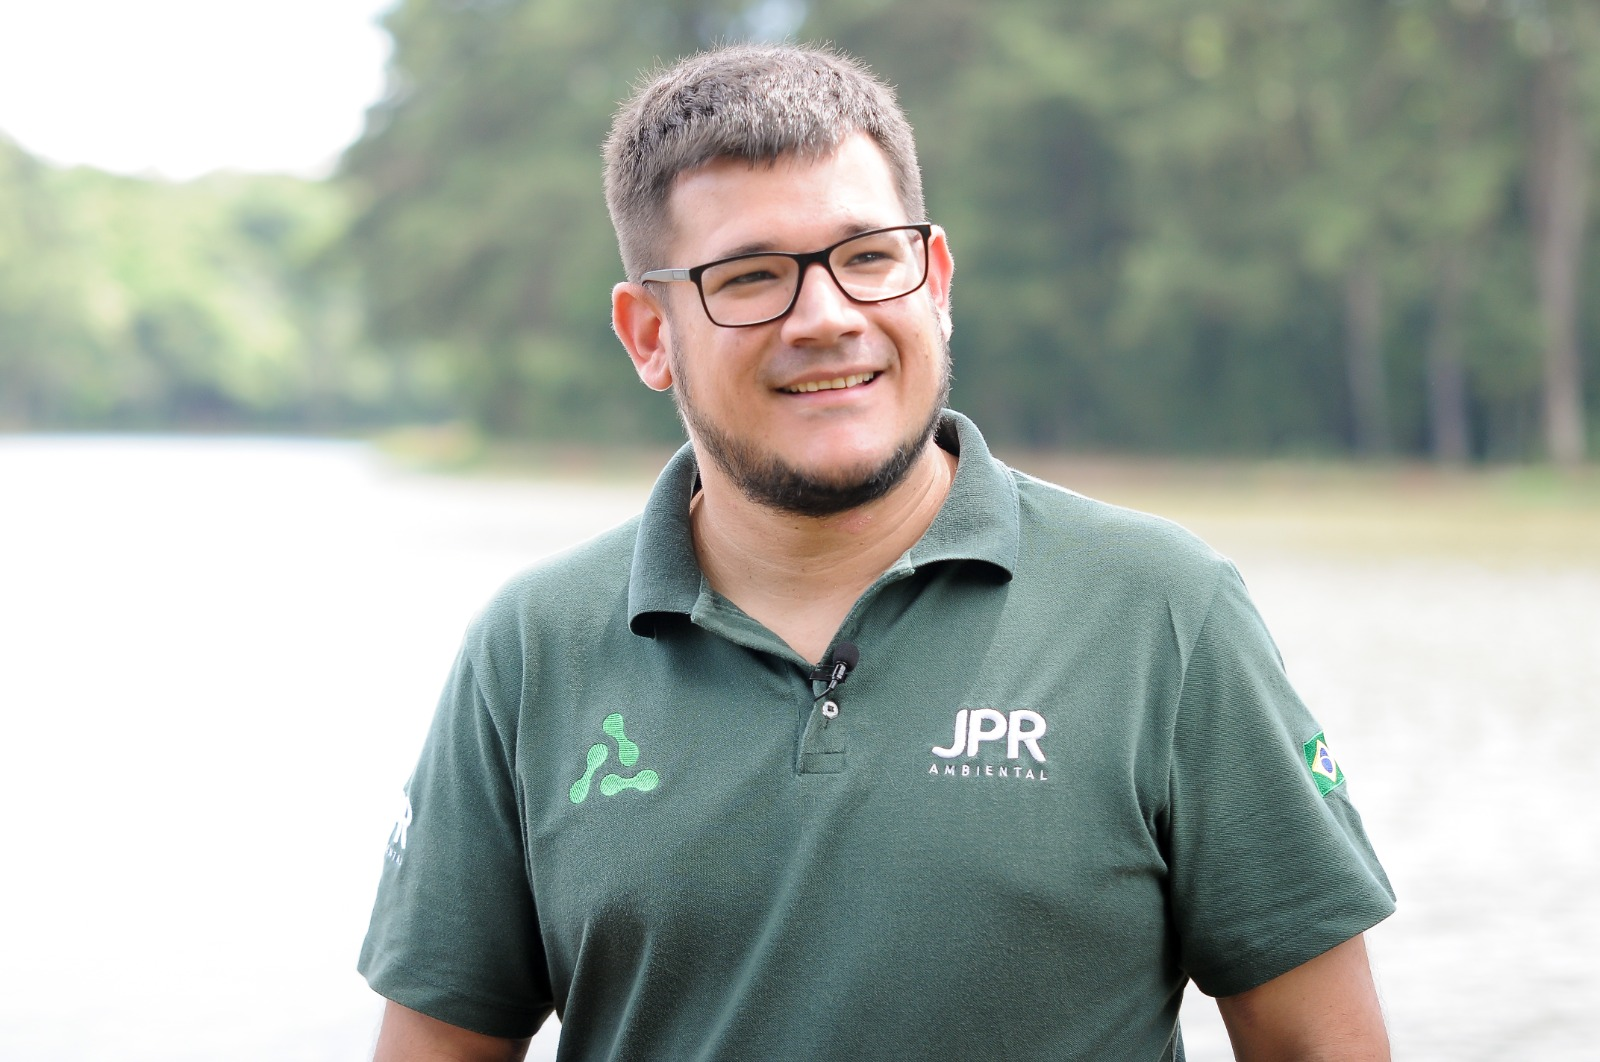
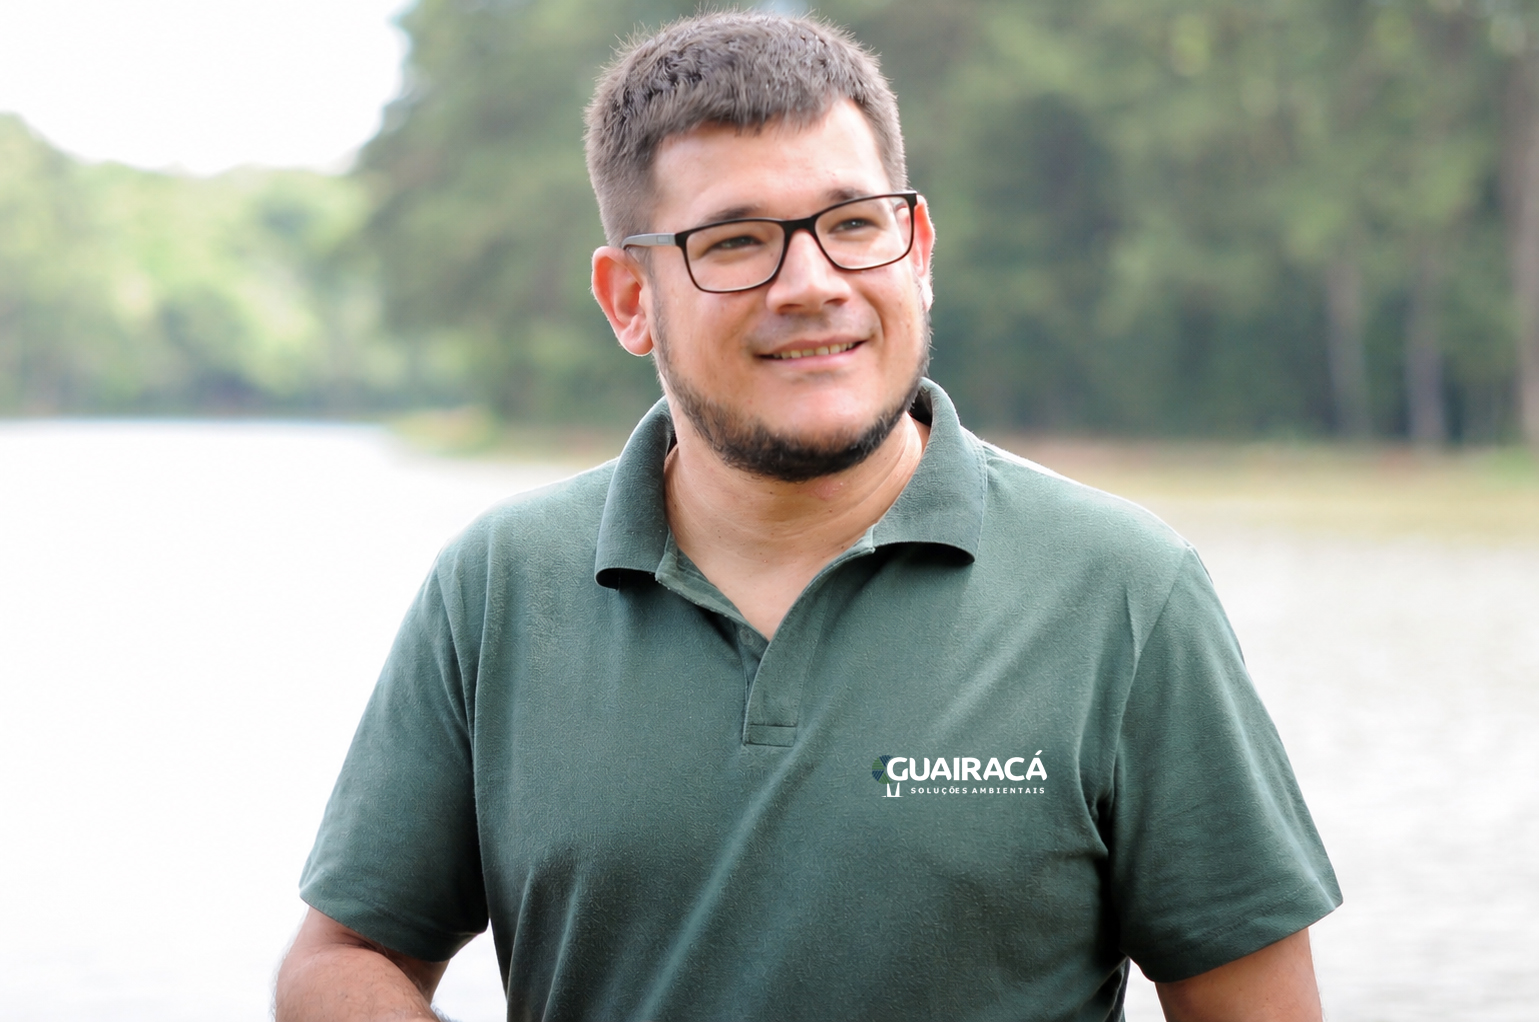
instalacao GTM

diff --git a/index.html b/index.html
@@ -1,6 +1,39 @@
 <!DOCTYPE html>
 <html lang="pt-BR">
 <head>
+    <!-- Google Consent Mode: deve vir antes do Google Tag Manager -->
+    <script>
+        window.dataLayer = window.dataLayer || [];
+        function gtag(){dataLayer.push(arguments);}
+
+        var consentimentoGoogle = 'denied';
+
+        try {
+            var escolhaCookies = localStorage.getItem('cookiesGuairaca');
+
+            if (escolhaCookies === 'granted' || escolhaCookies === 'true') {
+                consentimentoGoogle = 'granted';
+            }
+        } catch (erro) {
+            consentimentoGoogle = 'denied';
+        }
+
+        gtag('consent', 'default', {
+            ad_storage: consentimentoGoogle,
+            analytics_storage: consentimentoGoogle,
+            ad_user_data: consentimentoGoogle,
+            ad_personalization: consentimentoGoogle
+        });
+    </script>
+
+    <!-- Google Tag Manager -->
+    <script>(function(w,d,s,l,i){w[l]=w[l]||[];w[l].push({'gtm.start':
+    new Date().getTime(),event:'gtm.js'});var f=d.getElementsByTagName(s)[0],
+    j=d.createElement(s),dl=l!='dataLayer'?'&l='+l:'';j.async=true;j.src=
+    'https://www.googletagmanager.com/gtm.js?id='+i+dl;f.parentNode.insertBefore(j,f);
+    })(window,document,'script','dataLayer','GTM-MQ4B3G3R');</script>
+    <!-- End Google Tag Manager -->
+
     <meta charset="UTF-8">
     <meta name="viewport" content="width=device-width, initial-scale=1.0">
 
@@ -261,6 +294,11 @@
 </head>
 <body>
 
+        <!-- Google Tag Manager (noscript) -->
+    <noscript><iframe src="https://www.googletagmanager.com/ns.html?id=GTM-MQ4B3G3R"
+    height="0" width="0" style="display:none;visibility:hidden"></iframe></noscript>
+    <!-- End Google Tag Manager (noscript) -->
+     
     <header id="header" class="header-fixo">
         <div class="container menu-container">
             <div class="logo">
@@ -316,23 +354,23 @@
             <div class="container grid-numeros">
 
                 <div class="numero-item">
-                    <div class="contador" data-target="50">+ de 0</div>
+                    <div class="contador" data-target="100">+ de 0</div>
                     <p>Projetos Ambientais Aprovados</p>
                 </div>
 
                 <div class="numero-item">
-                    <div class="contador" data-target="1500">+ de 0</div>
+                    <div class="contador" data-target="1200">+ de 0</div>
                     <p>Hectares Recuperados</p>
                 </div>
 
                 <div class="numero-item">
-                    <div class="contador" data-target="120">+ de 0</div>
+                    <div class="contador" data-target="100">+ de 0</div>
                     <p>Clientes Corporativos Atendidos</p>
                 </div>
 
                 <div class="numero-item">
-                    <div class="contador">100%</div>
-                    <p>de Conformidade com Órgãos Fiscalizadores</p>
+                    <div class="contador" data-target="50">+ de 0</div>
+                    <p>Órgãos Fiscalizadores</p>
                 </div>
 
             </div>
@@ -645,7 +683,10 @@
                                 <svg width="18" height="18" viewBox="0 0 24 24" fill="none" stroke="currentColor" stroke-width="2" stroke-linecap="round" stroke-linejoin="round"><path d="M18 2h-3a5 5 0 0 0-5 5v3H7v4h3v8h4v-8h3.8l.2-4h-4V7a1 1 0 0 1 1-1h3z"></path></svg>
                             </a>
                         </div>
-                        <a href="politica-de-privacidade.html" class="link-privacidade">Política de Privacidade</a>
+                        <div class="footer-politicas">
+                            <a href="politica-de-privacidade.html" class="link-privacidade">Política de Privacidade</a>
+                            <button id="preferencias-cookies" class="botao-preferencias-cookies" type="button">Preferências de cookies</button>
+                        </div>
                     </div>
                 </div>
             </div>
@@ -659,10 +700,13 @@
             
         </div>
   
-        <div id="cookie-banner" class="cookie-banner">
+        <div id="cookie-banner" class="cookie-banner" role="dialog" aria-label="Preferências de cookies" aria-live="polite">
             <div class="cookie-content">
-                <p>Nós utilizamos cookies e tecnologias semelhantes para melhorar a sua experiência em nosso site. Ao continuar navegando, você concorda com a nossa <a href="politica-de-privacidade.html">Política de Privacidade</a>.</p>
-                <button id="aceitar-cookies" class="btn btn-principal btn-cookie">Entendi e Aceito</button>
+                <p>Utilizamos cookies opcionais para medir o uso do site e melhorar nossos serviços. Você pode aceitar ou recusar. Saiba mais na nossa <a href="politica-de-privacidade.html">Política de Privacidade</a>.</p>
+                <div class="cookie-acoes">
+                    <button id="recusar-cookies" class="btn btn-cookie btn-cookie-recusar" type="button">Recusar</button>
+                    <button id="aceitar-cookies" class="btn btn-principal btn-cookie" type="button">Aceitar</button>
+                </div>
             </div>
         </div>       
 

diff --git a/politica-de-privacidade.html b/politica-de-privacidade.html
@@ -1,6 +1,39 @@
 <!DOCTYPE html>
 <html lang="pt-BR">
 <head>
+    <!-- Google Consent Mode: deve vir antes do Google Tag Manager -->
+    <script>
+        window.dataLayer = window.dataLayer || [];
+        function gtag(){dataLayer.push(arguments);}
+
+        var consentimentoGoogle = 'denied';
+
+        try {
+            var escolhaCookies = localStorage.getItem('cookiesGuairaca');
+
+            if (escolhaCookies === 'granted' || escolhaCookies === 'true') {
+                consentimentoGoogle = 'granted';
+            }
+        } catch (erro) {
+            consentimentoGoogle = 'denied';
+        }
+
+        gtag('consent', 'default', {
+            ad_storage: consentimentoGoogle,
+            analytics_storage: consentimentoGoogle,
+            ad_user_data: consentimentoGoogle,
+            ad_personalization: consentimentoGoogle
+        });
+    </script>
+
+    <!-- Google Tag Manager -->
+    <script>(function(w,d,s,l,i){w[l]=w[l]||[];w[l].push({'gtm.start':
+    new Date().getTime(),event:'gtm.js'});var f=d.getElementsByTagName(s)[0],
+    j=d.createElement(s),dl=l!='dataLayer'?'&l='+l:'';j.async=true;j.src=
+    'https://www.googletagmanager.com/gtm.js?id='+i+dl;f.parentNode.insertBefore(j,f);
+    })(window,document,'script','dataLayer','GTM-MQ4B3G3R');</script>
+    <!-- End Google Tag Manager -->
+
     <meta charset="UTF-8">
     <meta name="viewport" content="width=device-width, initial-scale=1.0">
     <title>Política de Privacidade - Guairacá Ambiental</title>
@@ -8,6 +41,11 @@
     <link href="https://fonts.googleapis.com/css2?family=Inter:wght@300;400;600;700&display=swap" rel="stylesheet">
 </head>
 <body>
+
+        <!-- Google Tag Manager (noscript) -->
+    <noscript><iframe src="https://www.googletagmanager.com/ns.html?id=GTM-MQ4B3G3R"
+    height="0" width="0" style="display:none;visibility:hidden"></iframe></noscript>
+    <!-- End Google Tag Manager (noscript) -->
 
     <!-- Cabeçalho (Com links apontando de volta para a Home) -->
     <header id="header" class="header-fixo">
@@ -80,7 +118,8 @@
                 </ul>
 
                 <h2>5. Uso de Cookies</h2>
-                <p>O nosso site utiliza cookies apenas para melhorar a sua experiência de navegação e entender como os visitantes interagem com a página (através de métricas anônimas de acesso). Você pode desabilitar os cookies a qualquer momento ajustando as configurações do seu navegador, porém isso pode afetar o funcionamento de alguns recursos do site.</p>
+                <p>Este site utiliza o Google Tag Manager para administrar tags e pode utilizar o Google Analytics 4 para compreender como as páginas são acessadas. Cookies de análise e publicidade são ativados de acordo com a escolha feita no banner de consentimento. Quando recusados, esses tipos de armazenamento permanecem negados; as tags do Google ainda podem enviar sinais limitados sem cookies conforme o Modo de Consentimento.</p>
+                <p>Você pode alterar sua decisão a qualquer momento pelo botão “Preferências de cookies” disponível no rodapé.</p>
 
                 <h2>6. Armazenamento e Segurança</h2>
                 <p>Adotamos medidas de segurança técnicas e administrativas aptas a proteger os seus dados pessoais de acessos não autorizados e de situações acidentais de destruição, perda ou alteração. Seus dados são armazenados apenas pelo tempo necessário para a prestação do serviço ou cumprimento de exigências legais.</p>
@@ -155,7 +194,10 @@
                                 <svg width="18" height="18" viewBox="0 0 24 24" fill="none" stroke="currentColor" stroke-width="2" stroke-linecap="round" stroke-linejoin="round"><path d="M18 2h-3a5 5 0 0 0-5 5v3H7v4h3v8h4v-8h3.8l.2-4h-4V7a1 1 0 0 1 1-1h3z"></path></svg>
                             </a>
                         </div>
-                        <a href="politica-de-privacidade.html" class="link-privacidade">Política de Privacidade</a>
+                        <div class="footer-politicas">
+                            <a href="politica-de-privacidade.html" class="link-privacidade">Política de Privacidade</a>
+                            <button id="preferencias-cookies" class="botao-preferencias-cookies" type="button">Preferências de cookies</button>
+                        </div>
                     </div>
                 </div>
             </div>
@@ -168,6 +210,16 @@
             </div>
         </div>
     </footer>
+
+    <div id="cookie-banner" class="cookie-banner" role="dialog" aria-label="Preferências de cookies" aria-live="polite">
+        <div class="cookie-content">
+            <p>Utilizamos cookies opcionais para medir o uso do site e melhorar nossos serviços. Você pode aceitar ou recusar. Saiba mais nesta Política de Privacidade.</p>
+            <div class="cookie-acoes">
+                <button id="recusar-cookies" class="btn btn-cookie btn-cookie-recusar" type="button">Recusar</button>
+                <button id="aceitar-cookies" class="btn btn-principal btn-cookie" type="button">Aceitar</button>
+            </div>
+        </div>
+    </div>
 
     <script src="js/main.js"></script>
 </body>

diff --git a/js/main.js b/js/main.js
@@ -111,18 +111,63 @@ document.addEventListener("DOMContentLoaded", () => {
 
         const cookieBanner = document.getElementById('cookie-banner');
         const btnAceitarCookies = document.getElementById('aceitar-cookies');
+        const btnRecusarCookies = document.getElementById('recusar-cookies');
+        const btnPreferenciasCookies = document.getElementById('preferencias-cookies');
 
-        if (cookieBanner && btnAceitarCookies) {
-            const cookiesAceitos = localStorage.getItem('cookiesGuairaca');
+        if (cookieBanner && btnAceitarCookies && btnRecusarCookies) {
+            let escolhaCookies = null;
 
-            if (!cookiesAceitos) {
+            try {
+                escolhaCookies = localStorage.getItem('cookiesGuairaca');
+
+                // Mantém a escolha dos visitantes que aceitaram no banner antigo.
+                if (escolhaCookies === 'true') {
+                    escolhaCookies = 'granted';
+                    localStorage.setItem('cookiesGuairaca', escolhaCookies);
+                }
+            } catch (erro) {
+                escolhaCookies = null;
+            }
+
+            const atualizarConsentimentoGoogle = (status) => {
+                if (typeof gtag !== 'function') return;
+
+                gtag('consent', 'update', {
+                    ad_storage: status,
+                    analytics_storage: status,
+                    ad_user_data: status,
+                    ad_personalization: status
+                });
+            };
+
+            const salvarEscolhaCookies = (status) => {
+                try {
+                    localStorage.setItem('cookiesGuairaca', status);
+                } catch (erro) {
+                    // O consentimento continua válido durante a página atual.
+                }
+
+                atualizarConsentimentoGoogle(status);
+                cookieBanner.classList.remove('mostrar');
+            };
+
+            if (escolhaCookies !== 'granted' && escolhaCookies !== 'denied') {
                 setTimeout(() => {
                     cookieBanner.classList.add('mostrar');
                 }, 1000);
             }
 
             btnAceitarCookies.addEventListener('click', () => {
-                localStorage.setItem('cookiesGuairaca', 'true');
-                cookieBanner.classList.remove('mostrar');
+                salvarEscolhaCookies('granted');
             });
+
+            btnRecusarCookies.addEventListener('click', () => {
+                salvarEscolhaCookies('denied');
+            });
+
+            if (btnPreferenciasCookies) {
+                btnPreferenciasCookies.addEventListener('click', () => {
+                    cookieBanner.classList.add('mostrar');
+                });
+            }
         }

diff --git a/css/style.css b/css/style.css
@@ -272,8 +272,10 @@ body {
 }
 
 .layout-duas-colunas {
-    display: flex;
-    flex-direction: column;
+    display: grid;
+    grid-template-columns: 1fr 1fr;
+    gap: 60px;
+    align-items: center;
 }
 
 .layout-duas-colunas.reverso .conteudo-texto {
@@ -1347,14 +1349,32 @@ body {
     border-top: 1px solid rgba(255, 255, 255, 0.04);
 }
 
-.link-privacidade {
+.footer-politicas {
+    display: flex;
+    flex-direction: column;
+    align-items: flex-end;
+    gap: 8px;
+}
+
+.link-privacidade,
+.botao-preferencias-cookies {
     color: rgba(255, 255, 255, 0.6);
     font-size: 0.85rem;
     text-decoration: none;
     transition: var(--transicao);
 }
 
-.link-privacidade:hover {
+.botao-preferencias-cookies {
+    appearance: none;
+    padding: 0;
+    border: 0;
+    background: transparent;
+    font-family: inherit;
+    cursor: pointer;
+}
+
+.link-privacidade:hover,
+.botao-preferencias-cookies:hover {
     color: var(--cor-secundaria);
     text-decoration: underline;
 }
@@ -1401,10 +1421,29 @@ body {
     font-weight: 600;
 }
 
+.cookie-acoes {
+    display: flex;
+    align-items: center;
+    gap: 12px;
+    flex-shrink: 0;
+}
+
 .btn-cookie {
     white-space: nowrap;
     padding: 12px 25px !important;
     font-size: 0.9rem !important;
+}
+
+.btn-cookie-recusar {
+    color: var(--cor-branca);
+    background: transparent;
+    border: 1px solid rgba(255, 255, 255, 0.65);
+}
+
+.btn-cookie-recusar:hover {
+    color: #07130f;
+    background: var(--cor-branca);
+    border-color: var(--cor-branca);
 }
 
 @media (max-width: 768px) {
@@ -1432,9 +1471,21 @@ body {
         padding: 11px 16px !important;
     }
 
+    .cookie-acoes {
+        width: 100%;
+    }
+
+    .cookie-acoes .btn-cookie {
+        flex: 1;
+    }
+
     .footer-redes-wrapper {
         flex-direction: column;
         gap: 15px;
+        align-items: flex-start;
+    }
+
+    .footer-politicas {
         align-items: flex-start;
     }
 }
